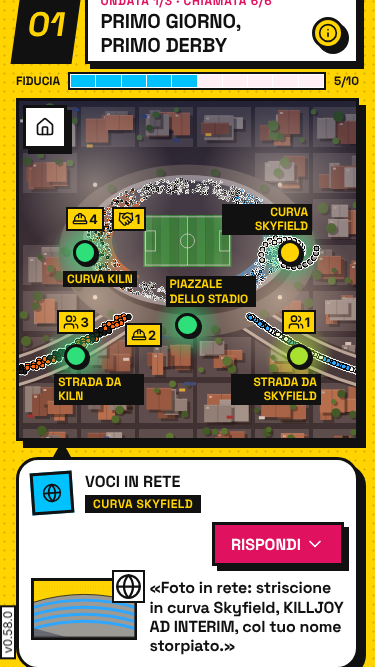
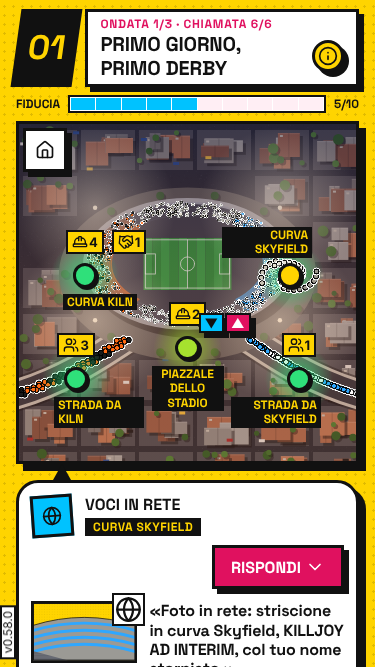
C-055: collaudo della 0.58.0 (idea A, mappa della città), rapporto e foto
Claude-Session: https://claude.ai/code/session_01QEYiaBSdjgg2PgFJP3FHbU

diff --git a/coordination/collaudi/C-055.md b/coordination/collaudi/C-055.md
@@ -1,0 +1,101 @@
+# Collaudo C-055 · versione 0.58.0 (main 30af225b)
+
+Collaudatrice, sola lettura sul codice. Build: `npm ci && npx vite build`, `dist/` servito in locale, Chromium `/opt/pw-browsers/chromium` via playwright-core (nessun `playwright install`).
+Foto in `coordination/collaudi/c055/` (nome = `<larghezza>x<altezza>-<episodio>-<cosa>.png`).
+Non ho collaudato l'indirizzo pubblico https://antoniovairo-rgb.github.io/vandelfalls/: ho provato la build locale di 30af225b. Non posso confermare che la versione online coincida.
+
+Gli script di prova stanno nello scratchpad della sessione (non sono nel repository, non li ho committati). Chi vuole rifare le misure deve riscriverli seguendo i passi sotto.
+
+## Esito in breve
+- Nessun bloccante e nessun difetto alto.
+- Idea A: 0 costi, «Ti costa…» o icone prima di «Conferma» in 512 chiamate (4 formati × 8 episodi × 3 stagioni, 124 imprevisti). Radio coerente con la scelta in 512/512.
+- Mappa della città: ferma (0 px di spostamento su 109 misure per formato); nessun testo tagliato senza ellissi.
+- 1 rilievo medio (scheda del settore sopra il settore toccato), 4 rilievi bassi, 1 misura ritirata.
+
+## Rilievi
+
+### C55-01 · media · La scheda del settore copre il settore appena toccato
+- Passi: in una chiamata, tocca un settore in basso della mappa (es. e01, «Strada da Kiln», a 360×640). La scheda si ancora in basso alla mappa.
+- Misura (FATTO MISURATO): su 20 tocchi per formato (e01, e03, e13, e25, prima chiamata, tutti i settori), il settore toccato è coperto al 100% dalla propria scheda in 3/20 tocchi a 360×640 e 375×667 e in 2/20 a 412×760 e 412×915 (e01 «strada_cinderwick» e «strada_larkspire» 100% in tutti i formati; e03 «parcheggi» 100% a 375, 92% a 412). In parte coperto (>1%): 6/20 a 360, 5/20 a 375, 5/20 a 412.
+- Conseguenza (IPOTESI): chi tocca un settore basso non vede più il punto che ha toccato né i vicini finché non chiude; la scheda dice solo il nome nel titolo.
+- File:riga: src/resa/stile-idee.css:4 (`.scheda-settore { position: absolute; … bottom: var(--spazio-2)` fisso in basso, larghezza intera).
+- Foto: `360x640-e01-scheda-strada_cinderwick.png`, `360x640-e03-scheda-quartiere.png`.
+
+### C55-02 · bassa · Con tocco immediato la pagina si muove di 2 px (a volte torna a scrollY 0)
+- Passi: apri una chiamata e tocca un settore entro ~120 ms.
+- Misura (FATTO MISURATO): 22 tocchi su 964 (2,3%) hanno cambiato l'altezza della pagina di −2 px (altezza 930→928 ecc.); in 4 casi (375×667 e01 #4; 375×667 e08 #7; 360×640 e08 #12) anche scrollY 32→0 o 16→0. Per formato: 360×640 6, 375×667 11, 412×760 3, 412×915 2. Esempi: 360×640 e08 #7 `curva_ospiti`, 375×667 e01 #4 `strada_larkspire`.
+- Controllo: riprovato con 1,5 s di attesa dopo l'apertura della chiamata (375×667 e01 e 360×640 e19, 7 chiamate, 70 tocchi) → 0 spostamenti; senza tocchi, 14 controlli → 0 spostamenti. Il difetto NON si riproduce con la pagina assestata.
+- IPOTESI (non verificata): concomitanza col riposizionamento d'apertura della chiamata (src/resa/schermate/Ondata.tsx:79-85, C25-08) e con l'ingresso animato della scena. Non so se la scheda c'entri. Un giocatore reale tocca di solito dopo aver letto la chiamata, quindi l'impatto è probabilmente minimo.
+- Foto: nessuna (misura numerica).
+
+### C55-03 · bassa · La Tripla «Rigioca» sposta la mappa a 412 e fa scorrere la pagina
+- Passi: stagione 2 con e18 superato → tocca e18 → «Rigioca l'episodio».
+- Misura (FATTO MISURATO): a 412×760 e 412×915 il bordo alto della mappa passa da 279 a 174 px e la pagina scorre di 102 px; a 360×640 scorre di 161 px, a 375×667 di 115 px (la mappa resta a 72 px).
+- Nota: già nota, il guardiano la esclude di proposito (tools/foto-po149.mjs:53 e :64, «la Tripla scorreva già prima», D-230). Non contraddice le novità (la mappa è ferma tra gli episodi), ma chi legge «mappa ferma» deve sapere che la Tripla è eccettuata.
+- Foto: `412x915-citta-tripla-e18.png`, `412x760-citta-tripla-e18.png`, `360x640-citta-tripla-e18.png`.
+
+### C55-04 · bassa · Nome di e01 a 412 su quattro righe, a contatto del disco
+- Passi: città, stagione 1, tocca e01, a 412×760 o 412×915.
+- Misura (FATTO MISURATO): il nome «Primo giorno, primo derby» occupa un riquadro 48×48 px su 4 righe a sinistra del disco (raggio 22 px); il rettangolo del nome entra di 0,9 px nel cerchio del disco. Altri nomi (e03, e13, e15, e27): 0,1 px. Il nome non copre il disco né altri dischi, quindi C52-03 è soddisfatto. La lettura su 4 righe resta stretta.
+- File:riga: src/resa/mappa/etichette.ts (`disponiNomeCitta`, chiamata da src/resa/mappa/MappaCitta.tsx:62).
+- Foto: `412x760-citta-nome-e01.png`.
+
+### C55-05 · bassa · «Scheda a altezza fissa» vale solo da 700 px di altezza
+- Misura (FATTO MISURATO): a 412×760 e 412×915 la scheda della città misura 177 px in tutti gli stati (109 misure, scarto 0). A 360×640 e 375×667 misura da 100,4 a 269,6 px a seconda dello stato (scarto 169,2), la mappa resta comunque ferma a 72 px e a 260 px di altezza e la pagina non scorre.
+- Causa nel codice: sotto `--vignetta-finestra-min` (700 px) `compatta` è falsa e la scheda cresce col contenuto (src/resa/schermate/Citta.tsx:39-45, token src/resa/token.css:134).
+- Il lotto D-243 dice «altezza fissa uguale in tutti gli stati» e «640/667 invariati»: coerente con il codice, ma non coerente se si legge la richiesta come fissa a ogni formato.
+- Foto: `360x640-citta-e19-S2-tocca.png`, `412x915-citta-e19-S2-tocca.png`.
+
+## Misura ritirata
+- «Costo visibile prima di Conferma» (e30 #9, e36 #8, e36 #15, 3 volte per formato): era un errore del mio selettore. Gli elementi erano il motivo di un'opzione esaurita (D-153), es. «Nessun mediatore libero», «Nessuna squadra libera» (src/resa/schermate/Ondata.tsx:136). Non è un costo ma dice, prima della scelta, che l'opzione usa un'unità: lo segnalo come osservazione.
+
+## Verificato senza difetti (FATTO MISURATO)
+
+### Idea A (360×640, 375×667, 412×760, 412×915)
+Gioco: e01, e03, e08 (stagione 1), e13, e19 (stagione 2), e25, e30, e36 (stagione 3); seme di partita quello di default dell'app. 128 chiamate per formato, 512 in tutto; 31 imprevisti per formato (imp_*), 124 in tutto.
+- Nessun costo prima di «Conferma»: 0 `data-costo`/`.costo`/`data-quando`/icone effetto nelle opzioni, 0 «Ti costa», 0 rapporto-costo prima di Conferma, né prima né dopo la scelta (escluse le opzioni esaurite). Foto: `360x640-e01-chiamata-senza-costo.png`, `…-e01-scelta-in-attesa-di-conferma.png`, `412x915-…`, e per gli imprevisti `<vp>-e03-IMPREVISTO-imp_carro-senza-costo.png`.
+- Testo delle opzioni = testo dei dati (confronto senza maiuscole, CSS le mette in maiuscolo): 0 differenze.
+- Radio dopo «Conferma»: contiene il testo `costo` dei dati dell'opzione scelta (e `Ti costa …` quando c'è): 512/512; sta dentro la mappa: 512/512. Foto: `360x640-e01-radio-dopo-conferma-asseconda.png`, `<vp>-e03-IMPREVISTO-imp_carro-radio.png`. Opzione senza `costo` nei dati → nessun rapporto.
+- Scheda del settore (tocchi per formato: 241 + 1 controllo; 964 in tutto):
+  - si apre: 100%; settore toccabile; nome accessibile (aria-label contiene il nome): 100%;
+  - dati = stato reale del salvataggio: situazione = parola di livello(tensione) 100%; unità = disposizione 100% (conteggio delle «montate» = quelle sulla mappa); folla = `follaDellOndata` 100%; «La chiamata in corso arriva da qui» solo sul settore citato 100%;
+  - role=dialog con titolo = nome del settore: 100%; pulsante chiudi ≥44×44: 100%; bersaglio dei settori ≥44×44 (nessuna violazione); fuoco sulla scheda all'apertura 100%;
+  - chiusura con tocco sulla scheda (83), Esc (81), pulsante (77) per formato: 100%; con Esc e pulsante il fuoco torna al settore: 100%; con il tocco non controllato;
+  - il salvataggio (stringa in localStorage) non cambia: 100%;
+  - la scheda sta dentro la mappa: 100%.
+- Imprevisti: nessun avviso «Imprevisto: interrompe le chiamate» nella chiamata (D-206, src/resa/schermate/Ondata.tsx:47,94): è voluto, ma il mio rilevatore all'inizio contava 0 imprevisti per questo; li ho riconosciuti dall'id.
+- Errori di console: 0 in tutti i giri.
+
+### Città (360×640, 375×667, 412×760, 412×915; stagioni 1, 2, 3)
+5 salvataggi (e01 «Prossimo», e13, e19 «da giocare», e25, tutti36), per ciascuno cambio stagione e tocco di ogni episodio toccabile: 109 misure per formato.
+- Mappa ferma: scarto di bordo alto e altezza 0 px su tutte le misure (limite ≤1 px). Valori: 72/260 a 360 e 375, 279/276 a 412×760, 279/431 a 412×915.
+- Stati provati: da giocare (e19), superato (e18), nessun episodio («tocca»), «Prossimo» (stagioni 2 e 3 chiuse con e01), tutti i 36 conclusi con episodio scelto (e35 e altri).
+- Nessuno scorrimento a 640 e 667 (e a 760/915) in nessuno stato (Tripla esclusa, vedi C55-03).
+- Testi della scheda: 0 testi tagliati senza ellissi; a 412 sono presenti ellissi (108 elementi in 110 misure); a 360/375 nessuna ellissi necessaria.
+- Il nome non copre altri dischi in nessuno stato; entro la mappa (vedi C55-04 per la sola quasi-sovrapposizione di e01).
+- Foto: `<vp>-citta-e19-S2-tocca.png`, `<vp>-citta-e01-S2-chiusa.png` («Prossimo»), `<vp>-citta-e19-superato-e18.png`, `<vp>-citta-tutti36-S1-tocca.png`.
+
+### Partita da giocatore (375×667, partita nuova dal titolo)
+Giocate 8 corse: e01, e02, e03, e04, e05, e06 con strategia `attenta` di src/logica/bot.ts, più e02 ed e04 prima giocate apposta con `peggiore` (scelte e schieramenti peggiori). Prima corsa di e02 e e04 con scelte sbagliate: entrambe fallite («fallito → rigioca»); rigiocate bene, superate. Esiti: e01 contenuto 2 stelle, e02 contenuto 2, e03 contenuto_a_fatica 2, e04 contenuto 2, e05 contenuto 2, e06 contenuto_a_fatica 2.
+- 0 costi visibili prima di «Conferma» in tutte le chiamate (17+19+19+17+14+12+13+17); 0 errori di console. Foto: `partita-375x667-e02-verbale-sbagliato.png`, `…-e04-verbale-sbagliato.png`, `…-e0N-chiamata1.png`.
+
+## Impressioni da giocatore (PO-120) — SOGGETTIVE, non misure
+- Senza la riga di costo le opzioni si leggono: i testi sono corti e dicono l'azione («Fai aprire un varco fra i pullman»). Non ho misurato la comprensione di un giocatore vero.
+- Il costo arriva dopo «Conferma» come riga radio sopra la mappa («Radio: … Ti costa 1 squadra dalla prossima ondata»), leggibile a 360×640. Chi sceglie sempre l'opzione «senza costo» la riconosce solo dopo aver confermato, come voluto da D-241.
+- La scheda dice: situazione (una parola), unità presenti, folla, «chiamata da qui». Aiuta a decidere dove sono le squadre e dove la tensione è alta; non dice quale opzione sposterebbe quali unità (a tutte le opzioni manca ogni anticipazione) né il numero di unità libere. Se il PO considera «informazioni mancanti» queste due cose, restano fuori da questo collaudo.
+- La scheda può coprire il settore toccato (C55-01): è la sensazione più fastidiosa che ho avuto a 360×640.
+- Le opzioni esaurite mostrano subito «Nessuna squadra libera»: utile, ma è già un accenno sul costo.
+
+## Cosa NON ho potuto verificare
+- La versione online su GitHub Pages (solo build locale di 30af225b); la coerenza tra le due.
+- Android reale, Capacitor, tastiere fisiche, lettori di schermo veri (verificati solo aria-label, ruoli, fuoco e DOM).
+- Testo al 130% (C52-04/05 sono per un altro lotto).
+- Le 36 missioni complete: ho giocato 8 episodi per formato (e01, e03, e08, e13, e19, e25, e30, e36) con una scelta per chiamata (una per volta, ciclica sulle opzioni) e non tutte le opzioni di ogni chiamata; altri 6 episodi nella partita da giocatore.
+- Non ho confrontato «prima/dopo» con 0.57.0 né la riproduzione del rosso C241A01/C242M01 (non richiesto).
+- Il seme di partita varia per stato: le sequenze di chiamate che ho visto possono non rappresentare tutti gli imprevisti possibili.
+- Chiusura col solo tocco: non ho controllato il ritorno del fuoco.
+- «Nomi accessibili» dei settori: verificato solo che l'aria-label contenga il nome del settore.
+
+## Strumenti e limiti del collaudo
+- Un giro di Idea A a 412×760 è stato interrotto da un errore dello strumento (click su elemento in animazione) e rifatto in due parti (e01, e03, e08 / e13, e19, e25, e30, e36); i dati qui riportati vengono dai due giri riusciti.
+- Una misura (costo visibile) era sbagliata e l'ho ritirata sopra.
